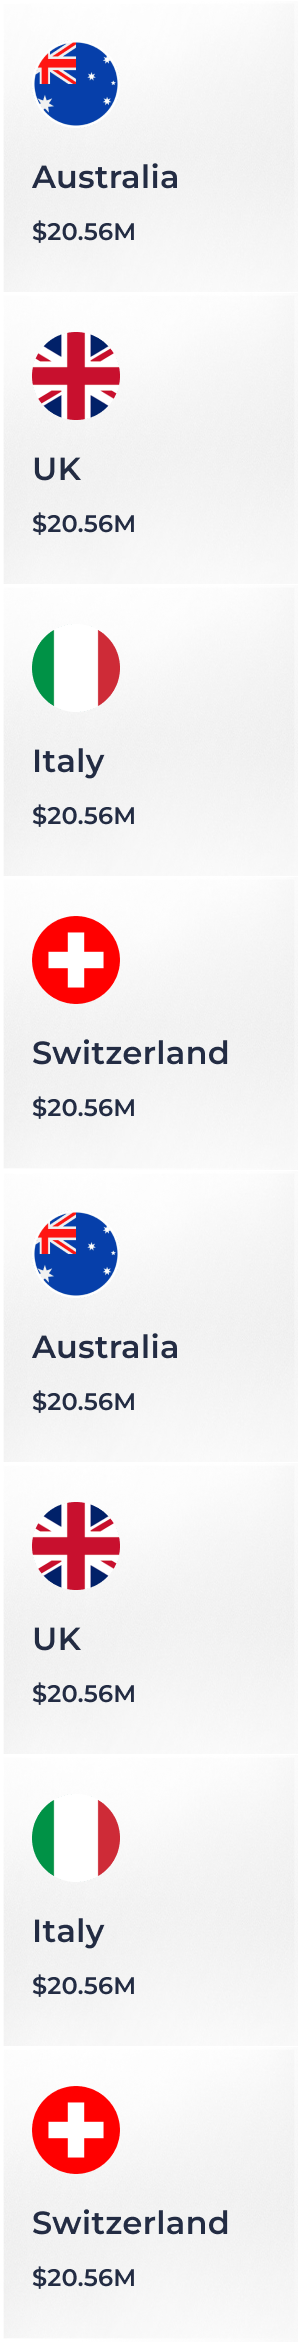
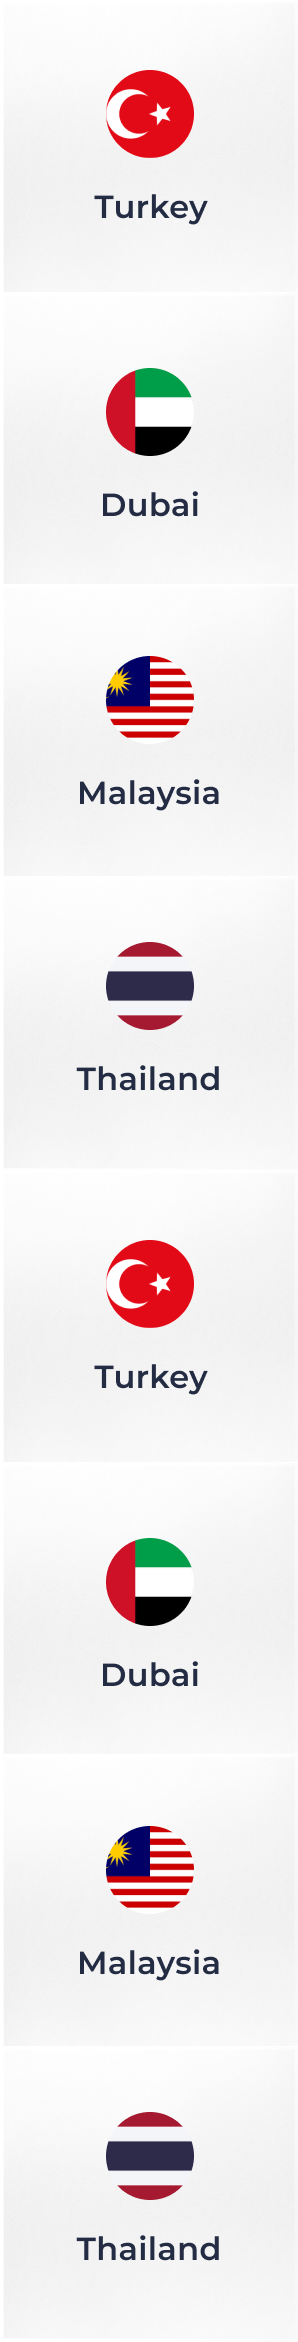
updated flags

Changed region(s): [[0.0906, 0.0, 0.7852, 0.9974], [0.6946, 0.8104, 0.7248, 0.8416]]

diff --git a/components/home/why-us/slide-7.jsx b/components/home/why-us/slide-7.jsx
@@ -1,30 +1,30 @@
-import classNames from 'classnames';
-import Image from 'next/image';
-import styles from './index.module.css';
+import classNames from "classnames";
+import Image from "next/image";
+import styles from "./index.module.css";
 
 const Slide7 = () => {
   return (
-    <div className='h-screen flex bg-white overflow-hidden'>
-      <div className='w-[946px] bg-[#FFD2AD] flex gap-5 justify-center items-end relative z-[1]'>
+    <div className="h-screen flex bg-white overflow-hidden">
+      <div className="w-[946px] bg-[#FFD2AD] flex gap-5 justify-center items-end relative z-[1]">
         <div className={classNames(styles.flag1)}>
-          <Image src='/images/home/why-us/flag1.png' alt='flag' width={149} height={1171} className='h-[1171px]' />
-          <Image src='/images/home/why-us/flag1.png' alt='flag' width={149} height={1171} className='h-[1171px]' />
+          <Image src="/images/home/why-us/1.png" alt="flag" width={149} height={1171} className="h-[1171px]" />
+          <Image src="/images/home/why-us/1.png" alt="flag" width={149} height={1171} className="h-[1171px]" />
         </div>
         <div className={classNames(styles.flag2)}>
-          <Image src='/images/home/why-us/flag2.png' alt='flag' width={149} height={1171} className='h-[1171px]' />
-          <Image src='/images/home/why-us/flag2.png' alt='flag' width={149} height={1171} className='h-[1171px]' />
+          <Image src="/images/home/why-us/2.png" alt="flag" width={149} height={1171} className="h-[1171px]" />
+          <Image src="/images/home/why-us/2.png" alt="flag" width={149} height={1171} className="h-[1171px]" />
         </div>
         <div className={classNames(styles.flag3)}>
-          <Image src='/images/home/why-us/flag3.png' alt='flag' width={149} height={1171} className='h-[1171px]' />
-          <Image src='/images/home/why-us/flag3.png' alt='flag' width={149} height={1171} className='h-[1171px]' />
+          <Image src="/images/home/why-us/3.png" alt="flag" width={149} height={1171} className="h-[1171px]" />
+          <Image src="/images/home/why-us/3.png" alt="flag" width={149} height={1171} className="h-[1171px]" />
         </div>
         <div className={classNames(styles.flag4)}>
-          <Image src='/images/home/why-us/flag4.png' alt='flag' width={149} height={888} className='h-[888px]' />
-          <Image src='/images/home/why-us/flag4.png' alt='flag' width={149} height={888} className='h-[888px]' />
+          <Image src="/images/home/why-us/4.png" alt="flag" width={149} height={888} className="h-[888px]" />
+          <Image src="/images/home/why-us/4.png" alt="flag" width={149} height={888} className="h-[888px]" />
         </div>
         <div className={classNames(styles.flag5)}>
-          <Image src='/images/home/why-us/flag5.png' alt='flag' width={149} height={1171} className={classNames('h-[1171px]')} />
-          <Image src='/images/home/why-us/flag5.png' alt='flag' width={149} height={1171} className={classNames('h-[1171px]')} />
+          <Image src="/images/home/why-us/5.png" alt="flag" width={149} height={1171} className={classNames("h-[1171px]")} />
+          <Image src="/images/home/why-us/5.png" alt="flag" width={149} height={1171} className={classNames("h-[1171px]")} />
         </div>
       </div>
     </div>
